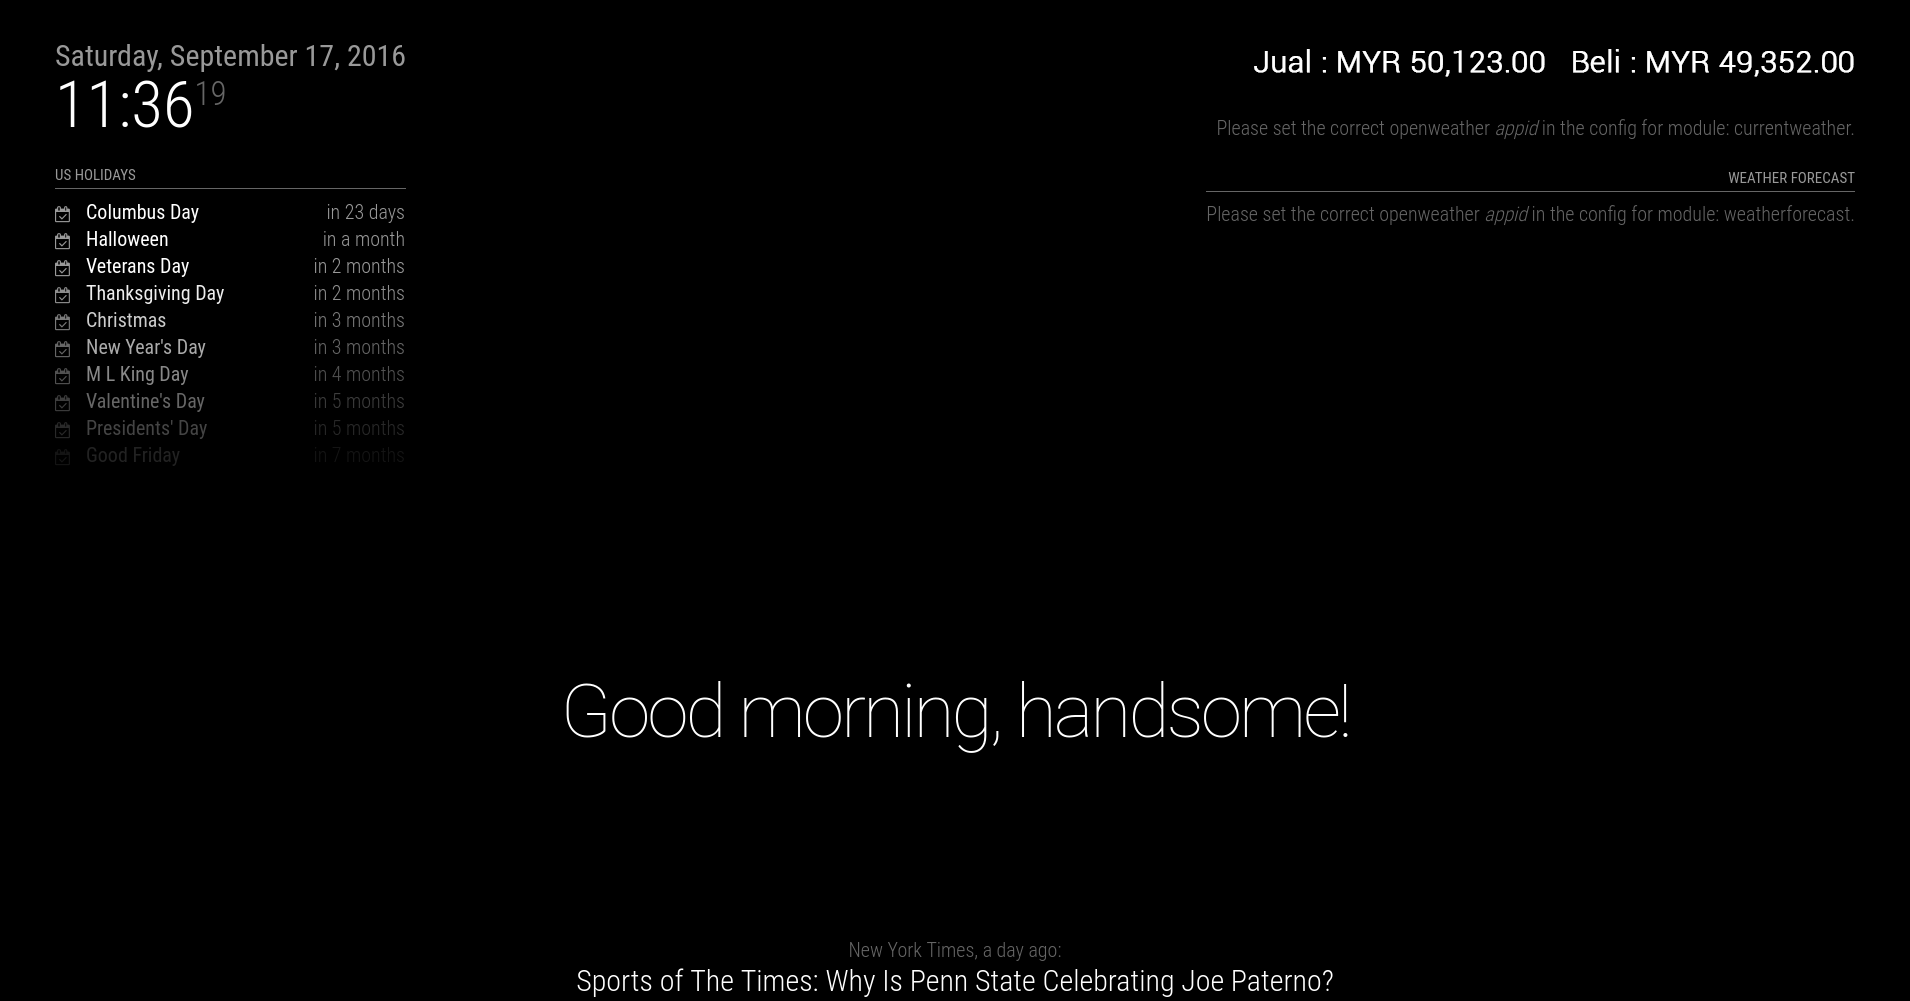
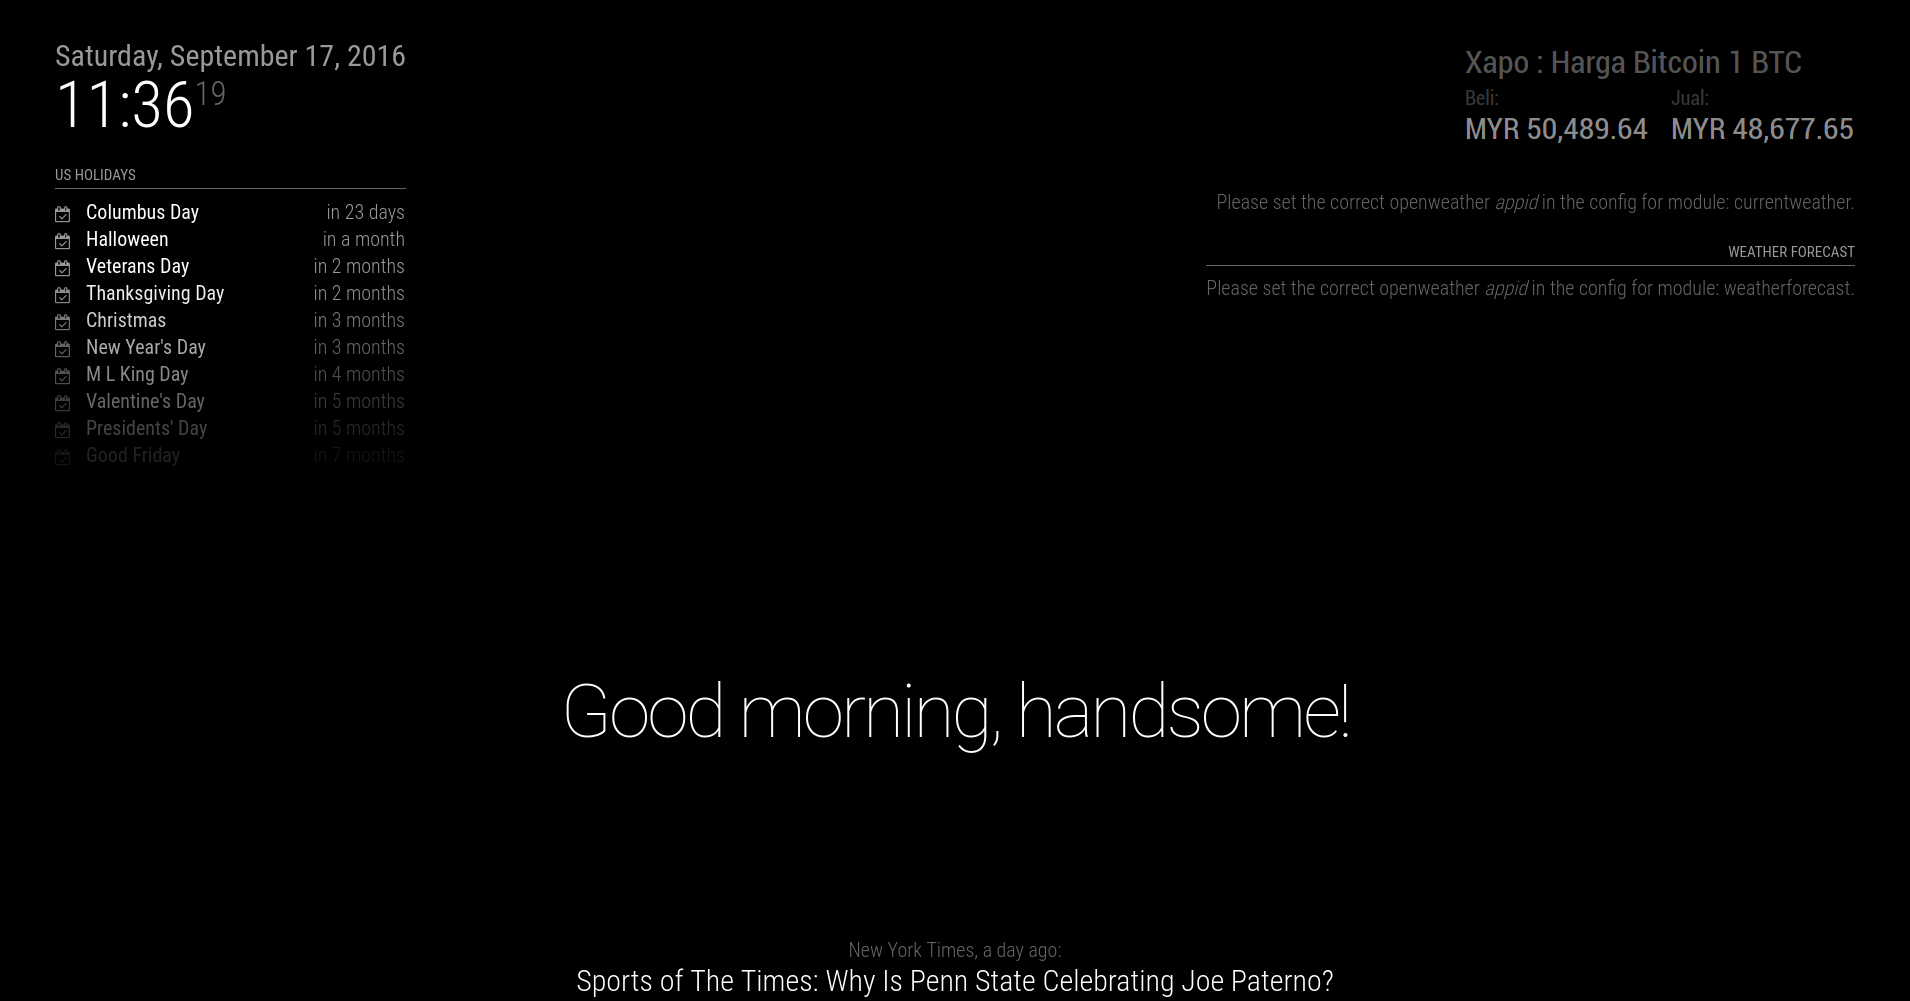
Revision #2 - Updated

Changed region(s): [[0.6178, 0.031, 0.9885, 0.2168], [0.6487, 0.2478, 0.9576, 0.3097]]

diff --git a/MMM-BTC-Xapo.js b/MMM-BTC-Xapo.js
@@ -3,7 +3,7 @@
     Xapo Bitcoin Price
     ====================================
 
-    Developer : Zulkifli Mohamed
+    Developer : Zulkifli Mohamed (putera)
     E-mail : mr.putera@gmail.com
 
 */
@@ -16,8 +16,9 @@ Module.register("MMM-BTC-Xapo",
     defaults:
     {
         currency: 'MYR',
-        refreshTime: 1,
-        language: "ms-my"
+        refreshTime: 5,
+        language: "ms-my",
+        animationSpeed: 2500
     },
 
     getStyles: function() {
@@ -26,7 +27,8 @@ Module.register("MMM-BTC-Xapo",
 
     getTranslations: function() {
         return {
-            "ms-my": "translations/ms-my.json"
+            "ms-my": "translations/ms-my.json",
+            "en": "translations/en.json"
         };
     },
 
@@ -52,36 +54,78 @@ Module.register("MMM-BTC-Xapo",
     },
 
     getDom: function() {
-        var wrapper = document.createElement("xapo-price");
-        wrapper.className = 'medium bright';
-        wrapper.className = 'xapo-price';
-
-        var data = JSON.parse(this.result);
-        var currency = this.config.currency;      
+        var data = this.result;
+        var currency = this.config.currency;
         var lastPriceBuy = data.buy;
         var lastPriceSell = data.sell;
 
+        var w = document.createElement("div");
+
         if (data)
         {
-            var pe = document.createElement("span");
-            pe.innerHTML = self.translate("SELL") + ' : ' + currency + ' ' + lastPriceSell + ' &nbsp; ' + self.translate("BUY") + ' : ' + currency + ' ' + lastPriceBuy;
-            wrapper.appendChild(pe);
+            if (typeof lastPriceBuy != "undefined") {
+                lastPriceBuy = currency + ' ' + lastPriceBuy.toString().replace(/\B(?=(\d{3})+(?!\d))/g, ",");
+            } else {
+                lastPriceBuy = '-';
+            }
+
+            if (typeof lastPriceSell != "undefined") {
+                lastPriceSell = currency + ' ' + lastPriceSell.toString().replace(/\B(?=(\d{3})+(?!\d))/g, ",");
+            } else {
+                lastPriceSell = '-';
+            }
+
+            // Title
+            var elt = document.createElement('div');
+            elt.className = 'normal dimmed';
+            elt.innerHTML = this.translate("XAPO_TITLE");
+
+            // Buy
+            var elbuy = document.createElement('div');
+            elbuy.style.width = '50%';
+            elbuy.style.float = 'left';
+            var elb = document.createElement('div');
+            elb.className = 'small dimmed';
+            elb.innerHTML = this.translate("BUY") + ':';
+            var elbp = document.createElement('div');
+            elbp.className = 'medium bright';
+            elbp.innerHTML = lastPriceBuy;
+            elbuy.appendChild(elb);
+            elbuy.appendChild(elbp);
+
+            // Sell
+            var elsell = document.createElement('div');
+            elsell.style.width = '50%';
+            elsell.style.float = 'right';
+            var els = document.createElement('div');
+            els.className = 'small dimmed buy-title';
+            els.innerHTML = this.translate("SELL") + ':';
+            var elsp = document.createElement('div');
+            elsp.className = 'medium bright';
+            elsp.innerHTML = lastPriceSell;
+            elsell.appendChild(els);
+            elsell.appendChild(elsp);
+
+            w.appendChild(elt);
+            w.appendChild(elbuy);
+            w.appendChild(elsell);
         }
         else
         {
-            var el = document.createElement("span");
+            var el = document.createElement("div");
             el.className = 'small dimmed';
-            el.innerHTML = self.translate("ERROR_DATA_LOAD");
-            wrapper.appendChild(el);
+            el.innerHTML = this.translate("ERROR_DATA_LOAD");
+            w.appendChild(el);
         }
-        return wrapper;
+
+        return w;
     },
 
     socketNotificationReceived: function(notification, payload) {
         if (notification === "PRICE_RESULT") {
             var self = this;
             this.result = payload;
-            this.updateDom(self.config.fadeSpeed);
+            this.updateDom(self.config.animationSpeed);
         }
     },
 });

diff --git a/node_helper.js b/node_helper.js
@@ -1,5 +1,16 @@
+/*
+
+    Xapo Bitcoin Price
+    ====================================
+
+    Developer : Zulkifli Mohamed (putera)
+    E-mail : mr.putera@gmail.com
+
+*/
+
 var NodeHelper = require('node_helper');
 var request = require('request');
+var async = require('async');
 
 module.exports = NodeHelper.create(
 {
@@ -9,7 +20,7 @@ module.exports = NodeHelper.create(
 
     getPrice: function(currency) {
         var self = this;
-        var price = {}; var priceBuy = 0.00; var priceSell = 0.00;
+        var priceBuy = 0.00; var priceSell = 0.00;
         currency = currency.toUpperCase();
         var cBTC = currency + 'BTC';
         var BTCc = 'BTC' + currency;
@@ -17,25 +28,39 @@ module.exports = NodeHelper.create(
         var urlBuy = 'https://api.xapo.com/v3/quotes/' + cBTC;
         var urlSell = 'https://api.xapo.com/v3/quotes/' + BTCc;
 
-        // Buy Price
-        request({ url: urlBuy, method: 'GET' }, function(error, response, body)
-        {
-            if (!error && response.statusCode == 200) {
-                var result = JSON.parse(body);
-                price.buy = result.fx_etoe[cBTC].source_amt.toFixed(2);
+        async.parallel({
+            buy: function(callback) {
+                request({ url: urlBuy, method: 'GET' }, function(error, response, body) {
+                    if (!error && response.statusCode == 200) {
+                        callback(error, body);
+                    }
+                });
+            },
+            sell: function(callback) {
+                request({ url: urlSell, method: 'GET' }, function(error, response, body) {
+                    if (!error && response.statusCode == 200) {
+                        callback(error, body);
+                    }
+                });
             }
-        });
-
-        // Sell Price
-        request({ url: urlSell, method: 'GET' }, function(error, response, body)
-        {
-            if (!error && response.statusCode == 200) {
-                var result = JSON.parse(body);
-                price.sell = result.fx_etoe[BTCc].rate.toFixed(2);
+    	},
+        function(error, result) {
+            if (error) {
+                console.log('[MMM-BTC-XAPO] ' + error);
             }
-        });
 
-        self.sendSocketNotification('PRICE_RESULT', JSON.stringify(price));
+            var rBuy = JSON.parse(result.buy), rSell = JSON.parse(result.sell);
+
+            if (rBuy) {
+                priceBuy = rBuy.fx_etoe[cBTC].source_amt.toFixed(2);
+            }
+            if (rSell) {
+                priceSell = rSell.fx_etoe[BTCc].rate.toFixed(2);
+            }
+
+            var price = {buy: priceBuy, sell: priceSell};
+            self.sendSocketNotification('PRICE_RESULT', price);
+        });
     },
 
     socketNotificationReceived: function(notification, payload)

diff --git a/css/MMM-BTC-Xapo.css b/css/MMM-BTC-Xapo.css
@@ -1,3 +1,1 @@
-.xapo-price { color: white; }
-.down {	color: red; }
-.up { color: green; }
+.xapo-title { margin-bottom: 10px; }

diff --git a/README.md b/README.md
@@ -15,11 +15,11 @@ To use this module, add it to the modules array in the `config/config.js` file:
 modules: [
     {
         module: 'MMM-BTC-Xapo',
-        position: 'top_right',
+        position: 'top_left',
         config: {
             // See 'Configuration options' for more information.
             currency: 'MYR',
-            refreshTime: 1,     // update interval price in minutes
+            refreshTime: 5,     // update interval price in minutes
             language: 'ms-my'
         }
     }
@@ -34,3 +34,4 @@ The following properties can be configured:
 | `currency` | Your currency exchange code |
 | `refreshTime` | Refresh interval time to get the price from Xapo |
 | `language` | Language you are using |
+| `animationSpeed` | Fade animation in miliseconds |

diff --git a/LICENSE.md b/LICENSE.md
@@ -1,7 +1,7 @@
 The MIT License (MIT)
 =====================
 
-Copyright © 2019 Zulkifli Mohamed
+Copyright © 2019 Zulkifli Mohamed (putera)
 
 Permission is hereby granted, free of charge, to any person
 obtaining a copy of this software and associated documentation
